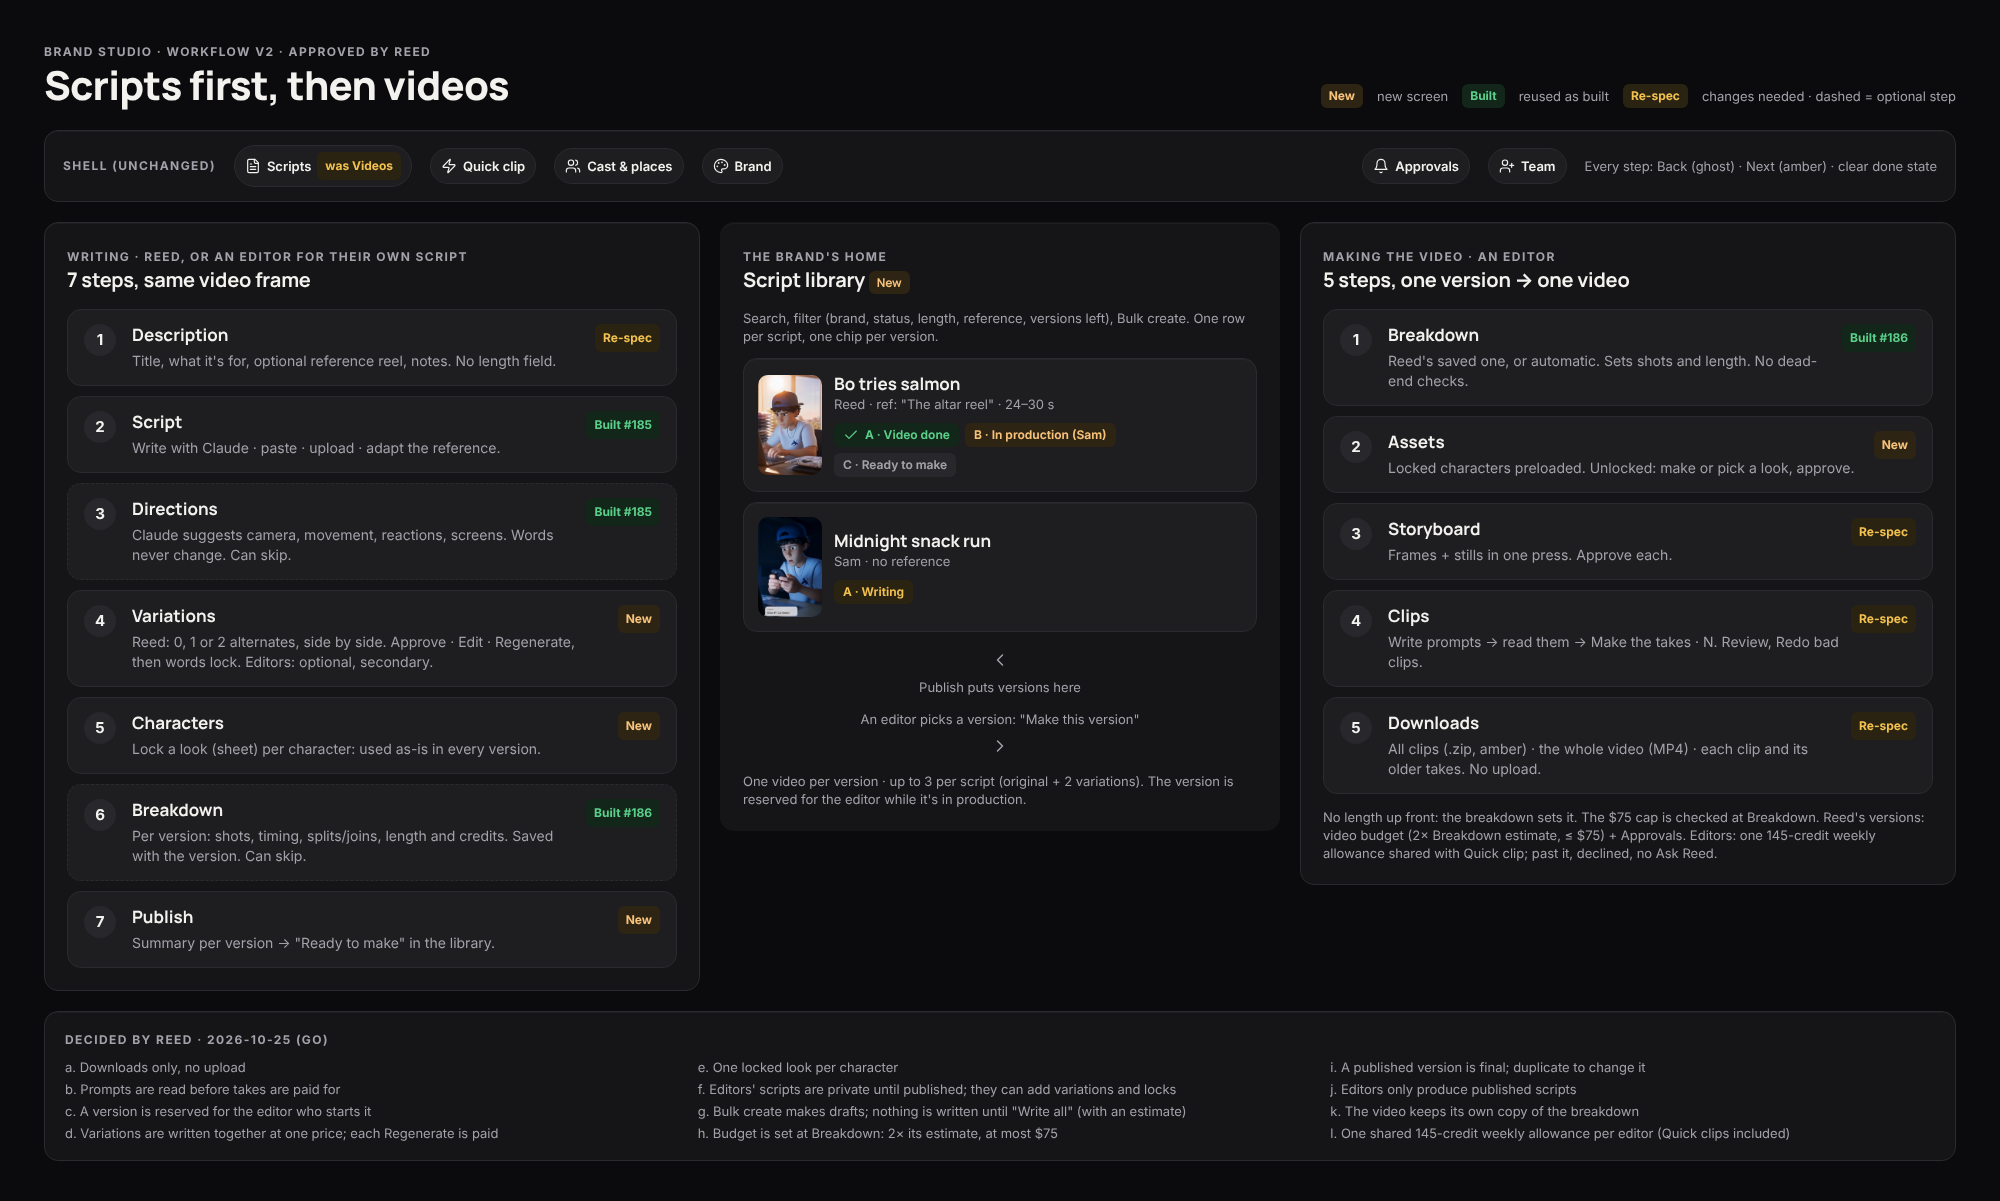
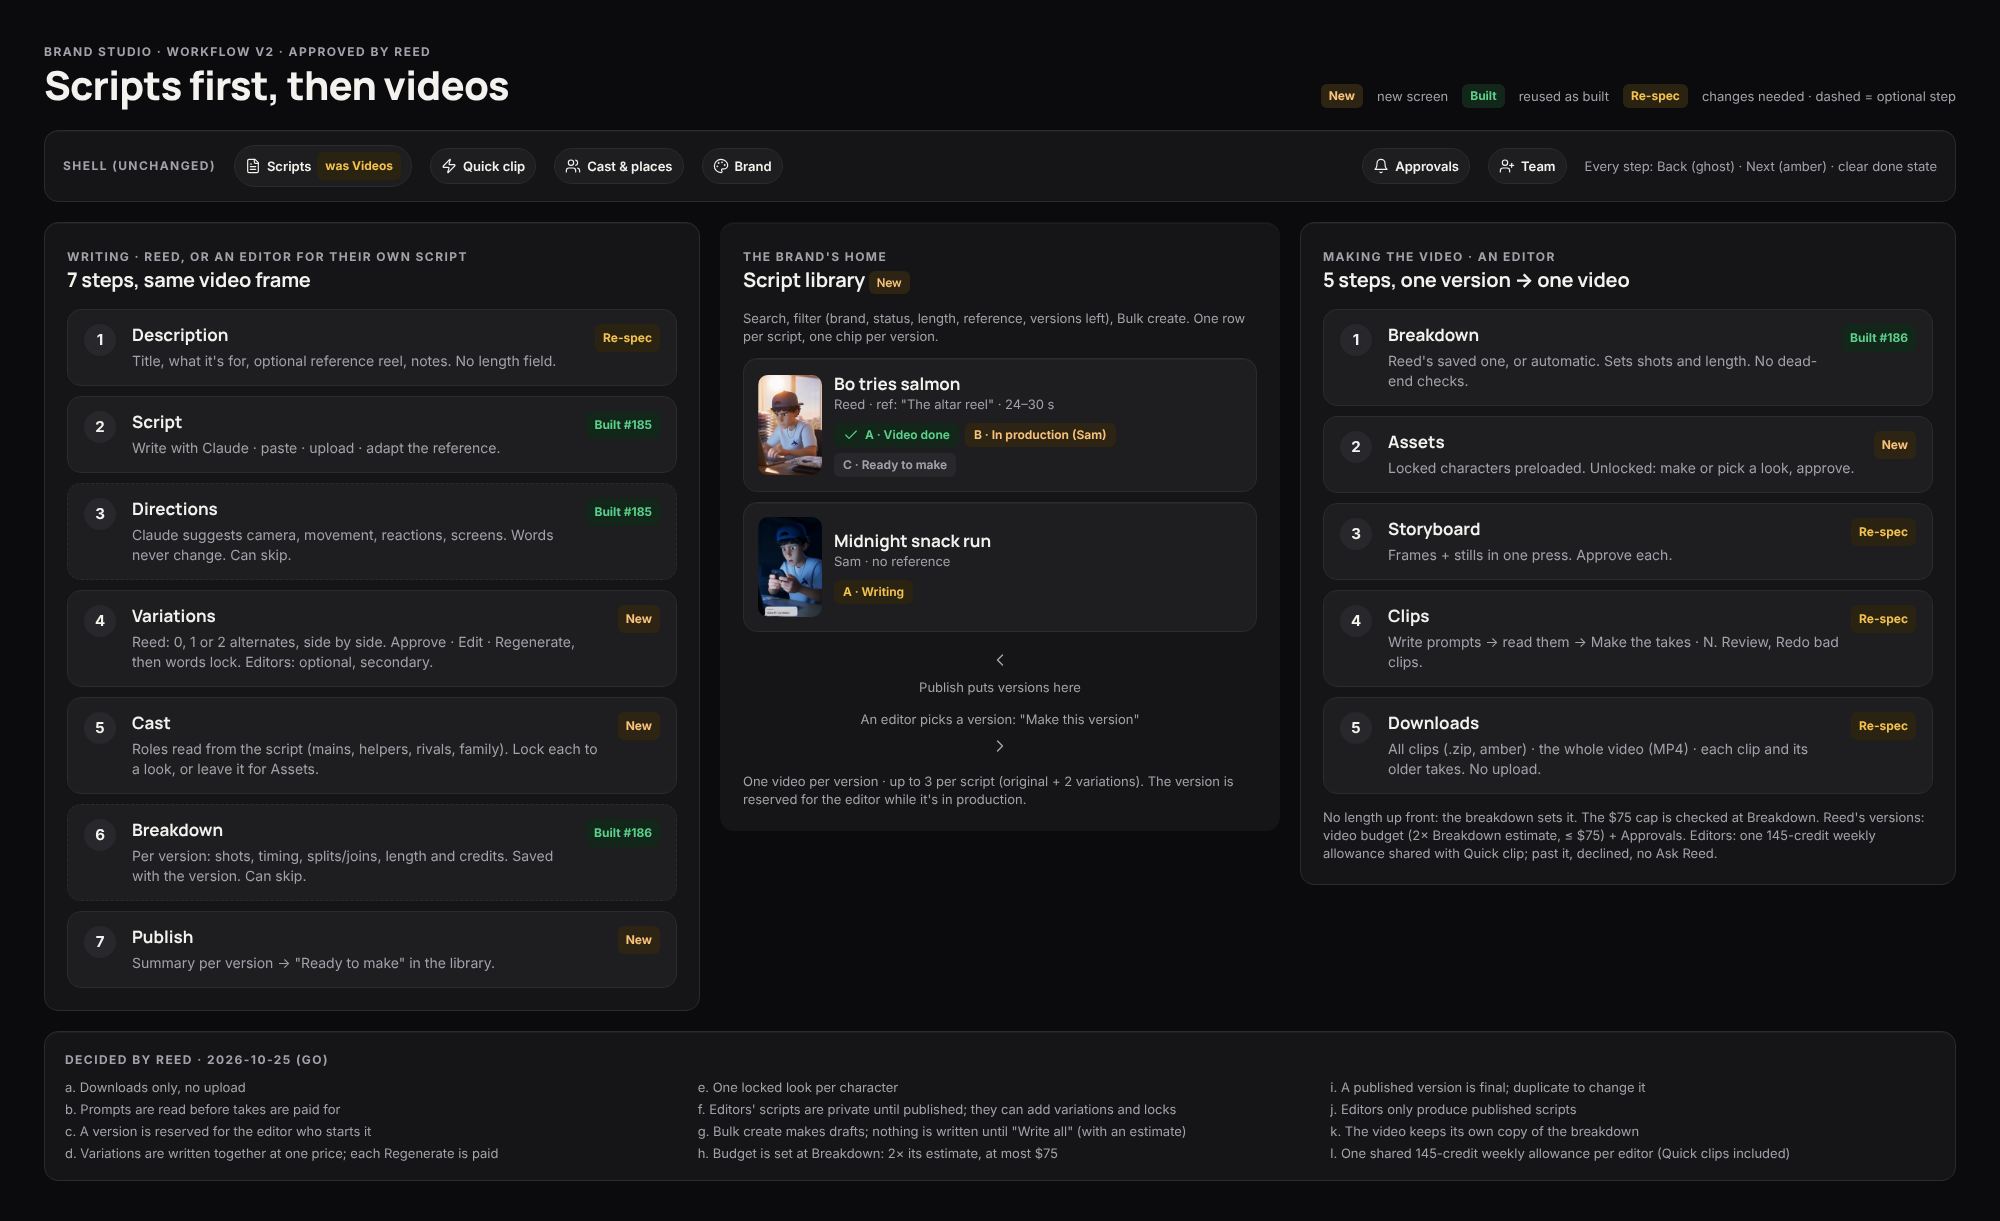
Workflow v2: step 5 becomes Cast (Reed, #197)
Claude-Session: https://claude.ai/code/session_018EZgdP2tfyzLp1eHTwPkJJ

diff --git a/docs/design/redesign/workflow-v2.md b/docs/design/redesign/workflow-v2.md
@@ -70,7 +70,7 @@ The frame from #179 (header, step picker, one Next, Script panel), with these st
 | 2 | **Script** | Write with Claude (drafts), paste, upload, or **Adapt the reference** (new card when a reel is picked). This is #185's step as built. | A working script exists |
 | 3 | **Directions** | Claude suggests camera, movement, reaction and brand screens; Reed's words never change. Optional: **Skip** is allowed. This is #185's Suggest directions, moved to its own step. | Applied or skipped |
 | 4 | **Variations** | Reed: pick **0, 1 or 2** alternates, written together at one price (**Write 2 variations · N credits**); each **Regenerate** is paid. Editors on their own scripts: the step is skipped by default, with a secondary **Add a variation** on Publish. Side by side: Original · Variation B · Variation C, each in the script font, with what changed highlighted. Each one has **Approve**, **Edit** and **Regenerate · N credits**. After approval, each shows "Approved · words locked". | Every variation kept is approved (or 0 chosen) |
-| 5 | **Characters** | Each character in the script is a row: picture, name, and a **Lock look** switch with a sheet picker. Locked: "Used as-is in every version." Unlocked: "The editor makes or picks a look." | Every character is decided (locked or not) |
+| 5 | **Cast** | Claude reads the approved versions and lists every named or recurring role: mains, helpers, rivals, family, never background people (Reed, #197). Each role is optional; **Lock to a look** picks a Cast & places character with an approved sheet, or makes one. Unlocked roles read "Generated at Assets". Add, rename or remove roles; read the cast again. | Every lock panel closed (locks are optional) |
 | 6 | **Breakdown** (optional) | Per version (tabs A / B / C): run the breakdown and edit timing, shots, splits and joins. This is #186's Shots step as built. It shows planned length and cost per version. **Skip** is allowed. | Saved for each version, or skipped |
 | 7 | **Publish** | A summary card per version: words approved, characters locked, breakdown saved or auto, estimated length and credits, then **Publish to the library**. | Versions are "Ready to make" |
 
